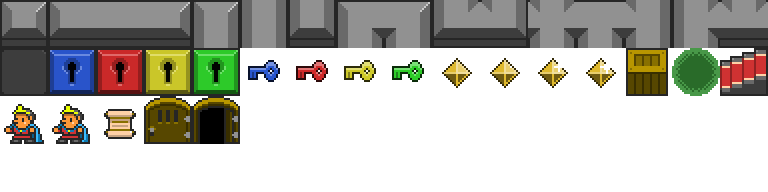
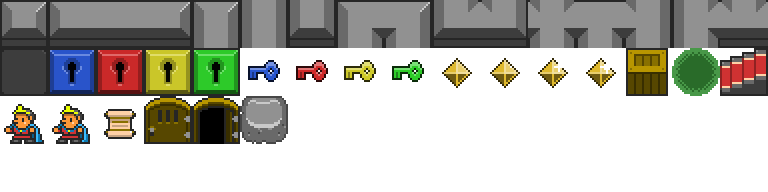
Heavy pushable items

Changed region(s): [[0.3125, 0.5, 0.375, 0.75]]

diff --git a/PuzzleGame/maps/Tiles.tsx b/PuzzleGame/maps/Tiles.tsx
@@ -104,4 +104,9 @@
    <property name="Type" value="ExitOpen"/>
   </properties>
  </tile>
+ <tile id="37">
+  <properties>
+   <property name="Type" value="Boulder"/>
+  </properties>
+ </tile>
 </tileset>

diff --git a/PuzzleGame/GameController.cs b/PuzzleGame/GameController.cs
@@ -231,12 +231,17 @@ namespace PuzzleGame
             // Trying to push into an empty space, that's totally cool
             if (pushedInto == null)
             {
+                if (pushed.Heavy && !byPlayer) return false; // Heavy things can only be pushed by the player directly, not other things
+
                 Items[newLocation.X, newLocation.Y] = pushed;
                 Items[location.X, location.Y] = null;
                 return true;
             }
 
-            // Otherwise, there's something there:
+            // Otherwise, there's something there.
+
+            if (pushed.Heavy) return false; // Heavy things can only be pushed into empty spaces
+
             if (TryPush(newLocation, direction, false)) // Try to push it. If this returns true, then newLocation must be empty...
             {
                 Items[newLocation.X, newLocation.Y] = pushed;

diff --git a/PuzzleGame/Loading.cs b/PuzzleGame/Loading.cs
@@ -121,6 +121,9 @@ namespace PuzzleGame
                         case "Crate":
                             cells[tile.X, tile.Y] = new Crate((Rectangle)rect);
                             break;
+                        case "Boulder":
+                            cells[tile.X, tile.Y] = new Boulder((Rectangle)rect);
+                            break;
                         case "Exit":
                             if(exitSet) throw new ArgumentException("Map contains multiple exits");
                             Exit = new Exit((Rectangle) rect, Tileset["ExitOpen"]);

diff --git a/PuzzleGame/Item.cs b/PuzzleGame/Item.cs
@@ -175,4 +175,15 @@ namespace PuzzleGame
             Heavy = false;
         }
     }
+
+    public class Boulder : Item
+    {
+        public Boulder(Rectangle rectangle)
+        {
+            Rectangle = rectangle;
+            Pushable = true;
+            Solid = true;
+            Heavy = true;
+        }
+    }
 }
